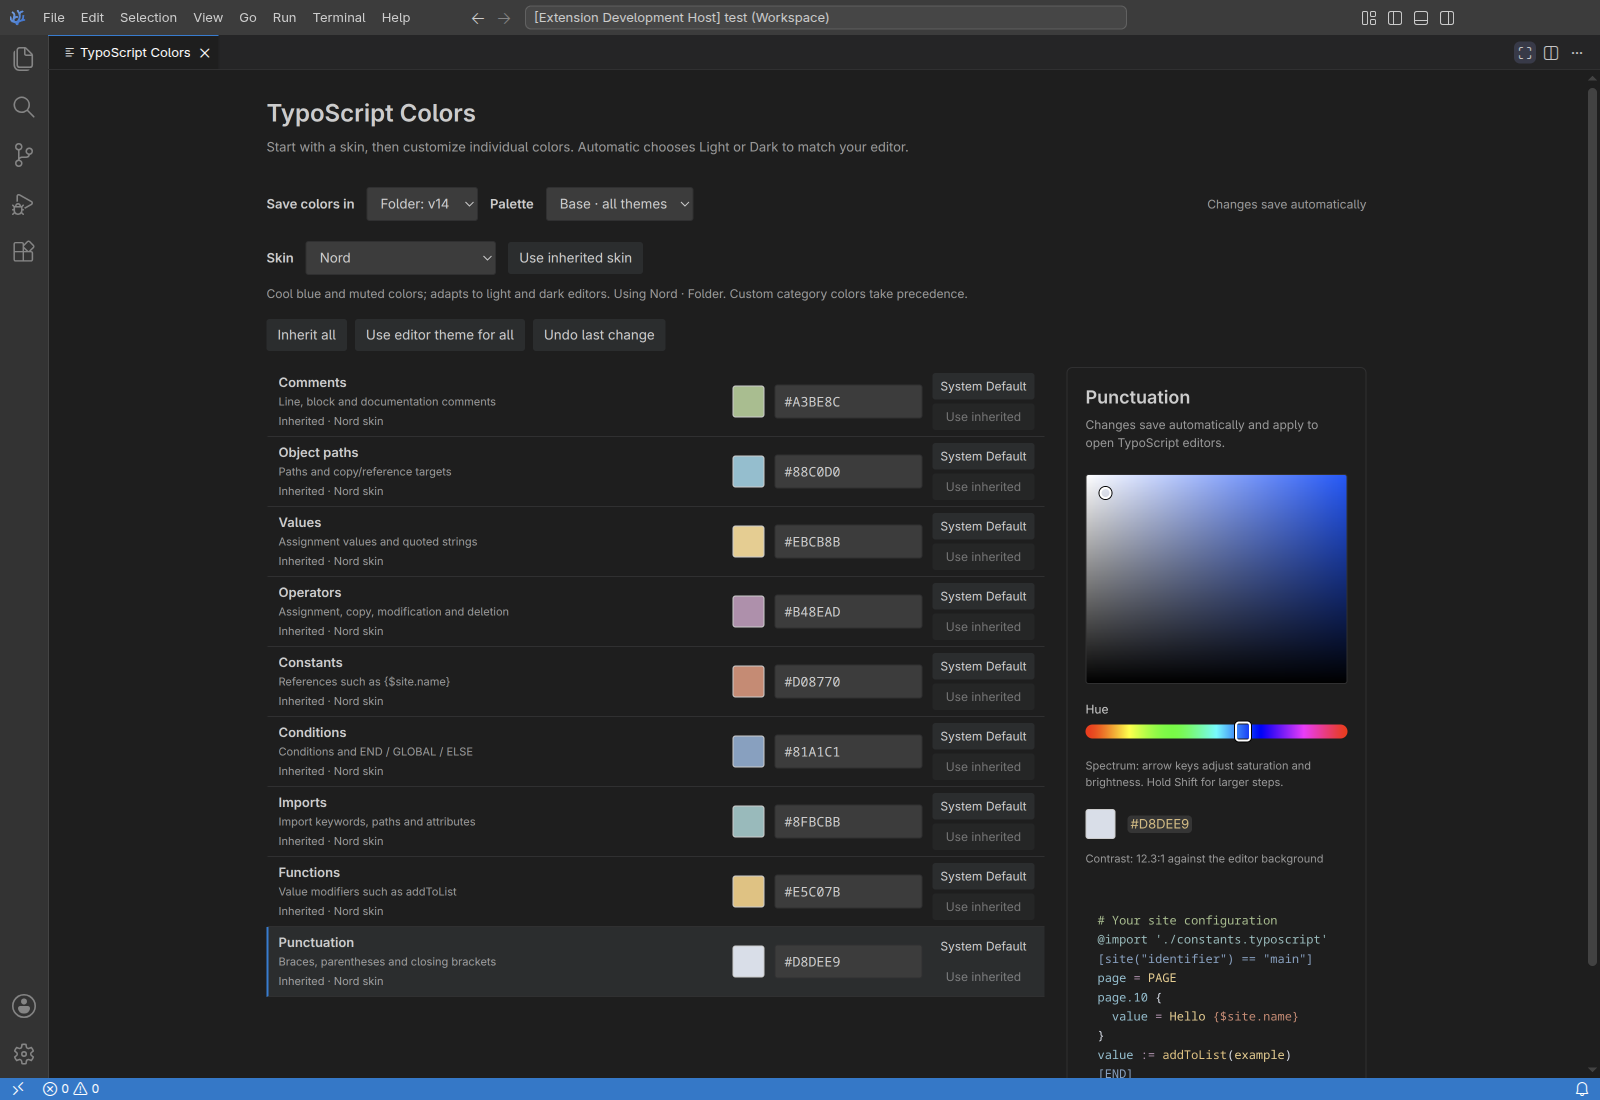
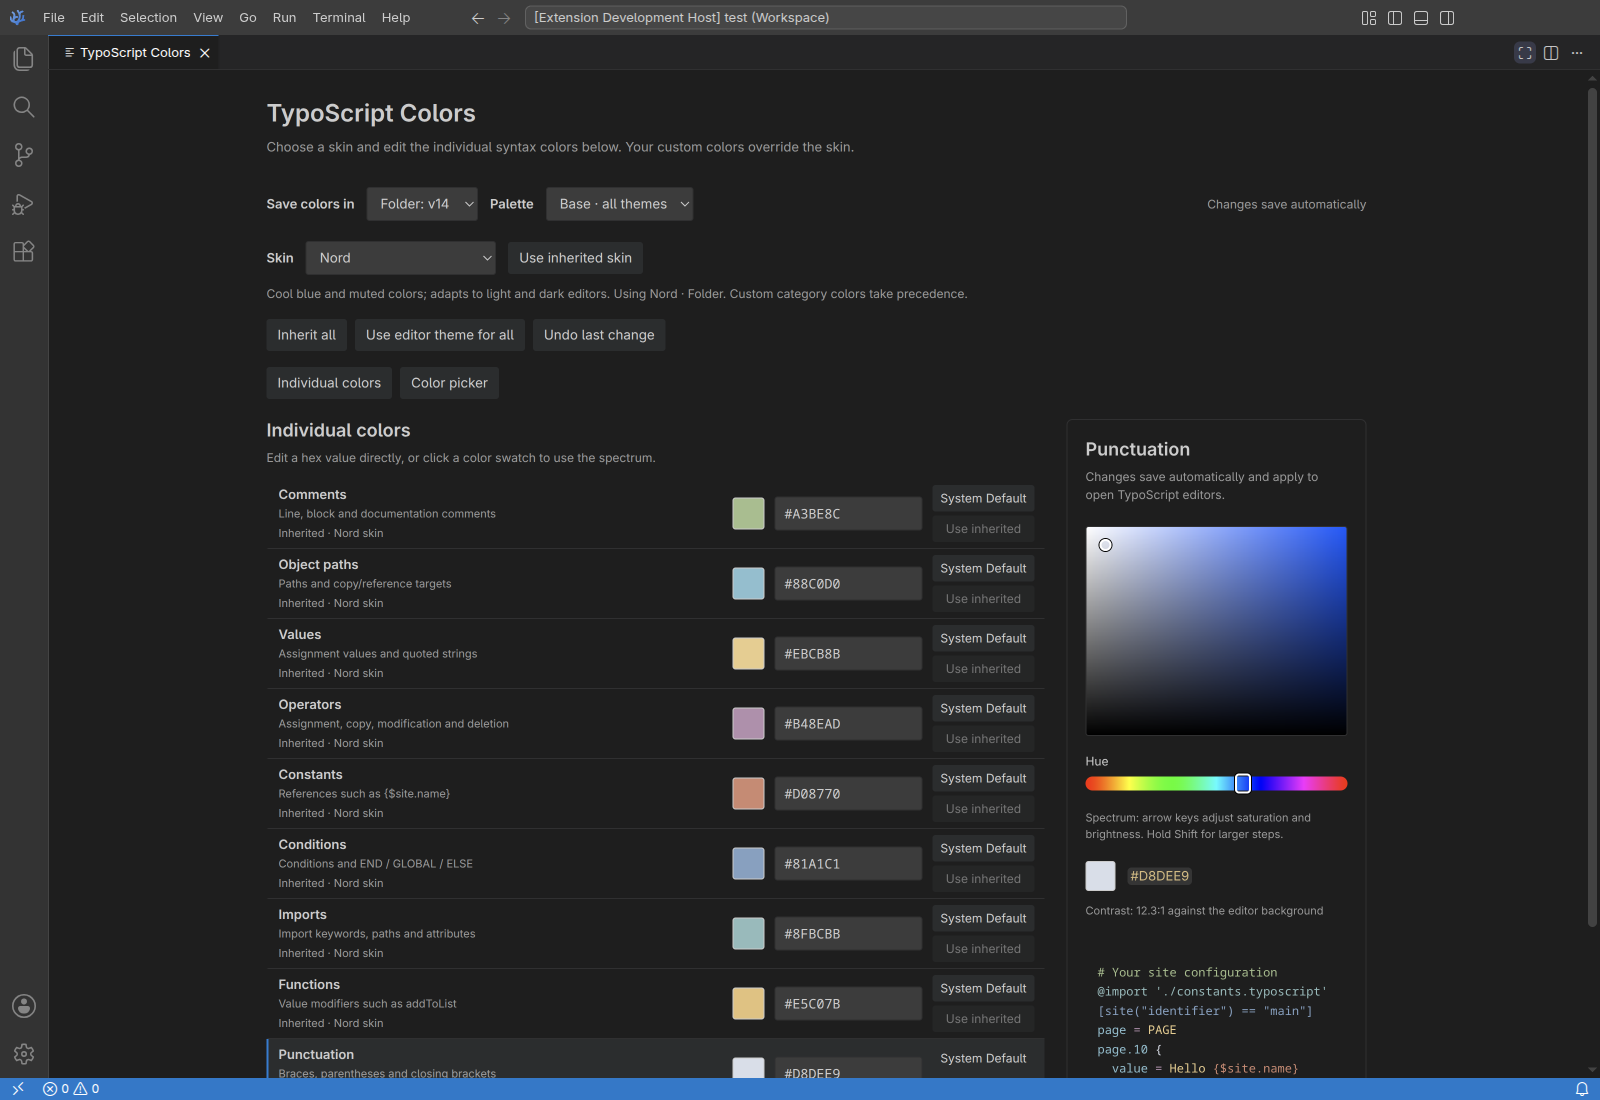
Keep individual color settings visible in narrow dialogs

diff --git a/scripts/color-probe.js b/scripts/color-probe.js
@@ -128,6 +128,28 @@ async function runColorProbe(directory, port, reportFile) {
       const before = report.characterChecks;
       if (current.action === 'picker') {
         const ui = await picker();
+        const firstColorVisible = await ui(`(() => {
+          const field = document.getElementById('hex-comments');
+          const rect = field.getBoundingClientRect();
+          return rect.width > 0 && rect.height > 0 && rect.top >= 0 && rect.bottom <= window.innerHeight
+            && rect.left >= 0 && rect.right <= window.innerWidth;
+        })()`);
+        assert.ok(firstColorVisible, 'individual color settings must be visible on opening a narrow dialog, before the spectrum');
+        await ui(`document.getElementById('show-picker').click()`);
+        await until('spectrum reachable from the color settings navigation', async () => await ui(`(() => {
+          const rect = document.getElementById('spectrum').getBoundingClientRect();
+          return document.activeElement.id === 'spectrum' && rect.top >= 0 && rect.bottom <= window.innerHeight;
+        })()`));
+        const compact = await ui(`window.innerWidth <= 960`);
+        await ui(`document.getElementById('show-colors').click()`);
+        if (compact) {
+          await ui(`document.getElementById('show-picker').click()`);
+          await ui(`document.getElementById('back-colors').click()`);
+        }
+        await until('individual color fields reachable from the spectrum', async () => await ui(`(() => {
+          const rect = document.getElementById('hex-comments').getBoundingClientRect();
+          return document.activeElement.id === 'categories-title' && rect.top >= 0 && rect.bottom <= window.innerHeight;
+        })()`));
         assert.equal(await ui(`document.getElementById('scope').value`), 'user', 'first use defaults to personal colors');
         await ui(`(() => { const scope = document.getElementById('scope'); scope.value = ${JSON.stringify(current.folderId)}; scope.dispatchEvent(new Event('change', { bubbles: true })); })()`);
         await pause(150);
@@ -145,6 +167,9 @@ async function runColorProbe(directory, port, reportFile) {
         await rendered(current);
         await ui(`(() => { document.querySelector('[data-category="comments"] .swatch').click(); const hue = document.getElementById('hue');
           hue.value = '0'; hue.dispatchEvent(new Event('input', { bubbles: true })); hue.dispatchEvent(new Event('change', { bubbles: true })); })()`);
+        // Let nested webview scrolling and the saved hue settle before mapping
+        // the spectrum into workbench coordinates for real pointer input.
+        await pause(150);
         const rect = await ui(`(() => { const r = document.getElementById('spectrum').getBoundingClientRect(); return { x: r.x, y: r.y, width: r.width, height: r.height }; })()`);
         const offset = await evaluate(`(() => { const r = [...document.querySelectorAll('iframe')].find(x => x.src.includes('stefan-sofka.typoscript-highlighting')).getBoundingClientRect(); return { x: r.x, y: r.y }; })()`);
         const x = offset.x + rect.x, y = offset.y + rect.y;

diff --git a/lib/color-settings.js b/lib/color-settings.js
@@ -13,15 +13,16 @@ function html(vscode, extensionUri, webview) {
 <meta http-equiv="Content-Security-Policy" content="default-src 'none'; style-src ${webview.cspSource}; script-src 'nonce-${nonce}';">
 <link rel="stylesheet" href="${asset('color-settings.css')}">
 <title>TypoScript Colors</title></head><body><main>
-<header><h1>TypoScript Colors</h1><p>Start with a skin, then customize individual colors. Automatic chooses Light or Dark to match your editor.</p></header>
+<header><h1>TypoScript Colors</h1><p>Choose a skin and edit the individual syntax colors below. Your custom colors override the skin.</p></header>
 <div class="toolbar"><label for="scope">Save colors in</label><select id="scope" aria-label="Settings scope"></select>
 <label for="palette">Palette</label><select id="palette" aria-label="Color palette"><option value="base">Base · all themes</option><option value="dark">Dark themes</option><option value="light">Light themes</option></select>
 <span id="status" role="status" aria-live="polite">Loading…</span></div>
 <div class="skin-toolbar"><label for="skin">Skin</label><select id="skin" aria-describedby="skin-help" disabled></select><button id="inherit-skin" disabled>Use inherited skin</button></div>
 <p id="skin-help" aria-live="polite">Loading skin…</p>
 <div class="bulk-actions"><button id="inherit-all" disabled>Inherit all</button><button id="reset-all" disabled>Use editor theme for all</button><button id="undo" disabled>Undo last change</button></div>
-<div class="layout"><section id="categories" aria-label="Syntax colors"></section>
-<section class="picker" aria-labelledby="picker-title"><h2 id="picker-title">Comments</h2><p id="picker-help">Select a category to edit its color.</p>
+<nav class="color-navigation" aria-label="Color settings sections"><button id="show-colors">Individual colors</button><button id="show-picker">Color picker</button></nav>
+<div class="layout"><section id="categories" aria-labelledby="categories-title"><h2 id="categories-title" tabindex="-1">Individual colors</h2><p class="categories-help">Edit a hex value directly, or click a color swatch to use the spectrum.</p></section>
+<section class="picker" aria-labelledby="picker-title"><button id="back-colors">Back to individual colors</button><h2 id="picker-title">Comments</h2><p id="picker-help">Select a category to edit its color.</p>
 <div id="spectrum" class="spectrum" tabindex="0" role="slider" aria-label="Saturation and brightness" aria-valuemin="0" aria-valuemax="100"><span id="marker"></span></div>
 <label class="hue-label" for="hue">Hue</label><input id="hue" type="range" min="0" max="360" step="1" value="0" aria-label="Hue">
 <p class="keyboard-help">Spectrum: arrow keys adjust saturation and brightness. Hold Shift for larger steps.</p>

diff --git a/media/color-settings.css b/media/color-settings.css
@@ -20,6 +20,10 @@ button:disabled { opacity: .5; cursor: default; }
 button:focus-visible, input:focus-visible, select:focus-visible, #spectrum:focus-visible { outline: 2px solid var(--vscode-focusBorder); outline-offset: 2px; }
 .layout { display: grid; grid-template-columns: minmax(550px, 1fr) 300px; grid-template-areas: "colors picker"; gap: 22px; align-items: start; }
 #categories { grid-area: colors; }
+#categories-title { scroll-margin-top: 16px; }
+.categories-help { font-size: 12px; margin-bottom: 12px; }
+.color-navigation { display: flex; flex-wrap: wrap; gap: 8px; margin: 0 0 20px; }
+#back-colors { display: none; }
 .row { display: grid; grid-template-columns: minmax(130px, 1fr) 32px 148px auto; gap: 10px; align-items: center; padding: 6px 10px; border-bottom: 1px solid var(--vscode-widget-border, var(--vscode-panel-border)); border-left: 2px solid transparent; }
 .row.selected { border-left-color: var(--vscode-focusBorder); background: var(--vscode-list-hoverBackground); }
 .label { display: block; font-weight: 600; margin-bottom: 4px; }
@@ -40,7 +44,7 @@ input[aria-invalid=true] { border-color: var(--vscode-inputValidation-errorBorde
 .selected-color { display: flex; gap: 12px; align-items: center; }
 #preview { display: inline-block; width: 30px; height: 30px; border-radius: 3px; border: 1px solid var(--vscode-foreground); }
 #color-value { font-size: 13px; }
-@media (max-width: 900px) { body { padding: 20px; } .layout { grid-template-columns: 1fr; grid-template-areas: "picker" "colors"; } .picker { position: static; max-width: 430px; } }
+@media (max-width: 960px) { body { padding: 20px; } .layout { grid-template-columns: 1fr; grid-template-areas: "colors" "picker"; } .picker { position: static; max-width: 430px; } #back-colors { display: inline-block; margin-bottom: 16px; } }
 @media (max-width: 530px) { .row { grid-template-columns: 1fr 32px 148px; } .row .reset { grid-column: 3; } .error { grid-column: 1 / -1; } #status { margin-left: 0; width: 100%; } }
 .source { color: var(--vscode-descriptionForeground); font-size: 11px; margin-top: 5px; }
 .bulk-actions { display: flex; flex-wrap: wrap; gap: 8px; margin: 16px 0; }

diff --git a/media/color-settings.js b/media/color-settings.js
@@ -82,6 +82,21 @@
     renderPicker();
   }
 
+  function showColors() {
+    const title = document.getElementById('categories-title');
+    title.scrollIntoView({ block: 'start' });
+    title.focus({ preventScroll: true });
+  }
+
+  function showPicker() {
+    spectrum.scrollIntoView({ block: 'center' });
+    spectrum.focus({ preventScroll: true });
+  }
+
+  document.getElementById('show-colors').addEventListener('click', showColors);
+  document.getElementById('back-colors').addEventListener('click', showColors);
+  document.getElementById('show-picker').addEventListener('click', showPicker);
+
   function renderRow(entry) {
     const row = rows.get(entry.category);
     if (document.activeElement !== row.input) row.input.value = entry.color;
@@ -159,8 +174,7 @@
       swatch.setAttribute('aria-label', `Choose ${entry.label.toLowerCase()} color`);
       swatch.addEventListener('click', () => {
         select(entry.category);
-        spectrum.scrollIntoView({ block: 'center' });
-        spectrum.focus({ preventScroll: true });
+        showPicker();
       });
       const input = document.createElement('input');
       input.type = 'text';

diff --git a/test/integration/colors.js b/test/integration/colors.js
@@ -172,7 +172,7 @@ async function run() {
   await vscode.commands.executeCommand('workbench.action.closeAuxiliaryBar');
   await vscode.commands.executeCommand('typoscriptHighlighting.configureColors', 'comments');
   await stage('picker UI enters all nine hex colors and adjusts the spectrum', { ...rendered(14), action: 'picker', baselineKey: 'dark-14',
-    folderId: `folder:${vscode.workspace.getWorkspaceFolder(uris.get(14)).uri.toString()}` });
+    folderId: `folder:${vscode.workspace.getWorkspaceFolder(uris.get(14)).uri.toString()}`, screenshot: 'individual-colors.png' });
   assert.equal(config(14).get('colors.comments'), '#BF3030');
   for (const [category, color] of Object.entries(PALETTE)) if (category !== 'comments') assert.equal(config(14).get(`colors.${category}`), color);
   await stage('picker UI resets all nine categories to System Default', { major: 14, action: 'picker-reset', restore: 'dark-14' });

diff --git a/docs/development.md b/docs/development.md
@@ -49,7 +49,7 @@ The runner removes temporary profiles and projects after each run. Downloaded ed
 
 ### Rendered-color checks and reports
 
-The color suite reads computed foreground RGB values through a localhost debug connection and checks persisted picker settings. It covers fresh-install automatic colors, all five skins, live Light/Dark changes, the skin selector and undo/inheritance, all nine categories, literal comment markers, nested constants, CRLF TSconfig, settings precedence, grammar changes, document edits, legacy colors, hex/spectrum/keyboard input and theme resets. Native theme baseline checks select the Editor theme skin explicitly. Reset checks compare non-whitespace characters with that baseline. The suite also verifies that native token-color settings and unrelated languages remain unchanged.
+The color suite reads computed foreground RGB values through a localhost debug connection and checks persisted picker settings. It verifies that individual color fields are visible on first opening in a split editor and that navigation reaches the spectrum and returns to the fields. It also covers fresh-install automatic colors, all five skins, live Light/Dark changes, the skin selector and undo/inheritance, all nine categories, literal comment markers, nested constants, CRLF TSconfig, settings precedence, grammar changes, document edits, legacy colors, hex/spectrum/keyboard input and theme resets. Native theme baseline checks select the Editor theme skin explicitly. Reset checks compare non-whitespace characters with that baseline. The suite also verifies that native token-color settings and unrelated languages remain unchanged.
 
 Reports default to `.vscode-test/color-results.json`. Failed runs attempt to save a screenshot beside the report.
 
@@ -59,7 +59,7 @@ Reports default to `.vscode-test/color-results.json`. Failed runs attempt to sav
 | `VSCODE_VERSION` | Download a particular VS Code build, such as `1.70.0`, when no executable is supplied. |
 | `TYPOSCRIPT_COLOR_REPORT` | Choose the rendered-color JSON report path. |
 | `TYPOSCRIPT_EXTENSION_PATH` | Load an extracted VSIX's extension directory to test packaged runtime files. |
-| `TYPOSCRIPT_SCREENSHOT_DIR` | Capture real skin selector, dark/light picker, editor, outline, Classic/Composer detection, YAML navigation, site-set load order and typed settings screenshots during the color suite. |
+| `TYPOSCRIPT_SCREENSHOT_DIR` | Capture real individual color fields in a split editor, skin selector, dark/light picker, editor, outline, Classic/Composer detection, YAML navigation, site-set load order and typed settings screenshots during the color suite. |
 | `TYPOSCRIPT_TEST_VIEWPORT` | Set a compact color-test viewport such as `1024x800`; screenshot mode uses its fixed larger viewport. |
 
 To verify the declared minimum and regenerate documentation screenshots:
@@ -86,11 +86,11 @@ npm run package
 npx --no-install vsce ls --tree
 ```
 
-The current source builds **typoscript-highlighting-1.7.0.vsix**, including automatic syntax skins and site-set editing. Install the resulting file with **Extensions: Install from VSIX…**, or run one of:
+The current source builds **typoscript-highlighting-1.7.1.vsix**, including automatic syntax skins and site-set editing. Install the resulting file with **Extensions: Install from VSIX…**, or run one of:
 
 ```bash
-codium --install-extension typoscript-highlighting-1.7.0.vsix
-code --install-extension typoscript-highlighting-1.7.0.vsix
+codium --install-extension typoscript-highlighting-1.7.1.vsix
+code --install-extension typoscript-highlighting-1.7.1.vsix
 ```
 
 GitHub release downloads and extension registries are published separately; their available version can differ from the source version.

diff --git a/README.md b/README.md
@@ -2,7 +2,7 @@
 
 TypoScript and TSconfig support for **Visual Studio Code and VSCodium**, with TYPO3-aware highlighting, project navigation and configurable colors.
 
-Version **1.7.0** adds five ready-to-use syntax skins and automatic Light/Dark selection. Highlighting works immediately after installation. Site-set dependencies, typed YAML settings and project navigation remain available. Composer and Classic TYPO3 installations are detected automatically, including active `typo3_src` symlinks.
+Version **1.7.1** keeps individual color settings visible in narrow or split editor groups, alongside the five syntax skins and automatic Light/Dark selection. Highlighting works immediately after installation. Site-set dependencies, typed YAML settings and project navigation remain available. Composer and Classic TYPO3 installations are detected automatically, including active `typo3_src` symlinks.
 
 [Install](#installation) · [Get started](#quick-start) · [Navigation](#navigate-your-project) · [Colors](#customize-colors) · [Settings](#settings-reference)
 
@@ -12,14 +12,14 @@ Version **1.7.0** adds five ready-to-use syntax skins and automatic Light/Dark s
 
 ## Installation
 
-Download **typoscript-highlighting-1.7.0.vsix** from the [GitHub release 1.7.0](https://github.com/StefanSofka/typoscript-highlighting/releases/tag/v1.7.0), then run **Extensions: Install from VSIX…** in the Command Palette. Alternatively, install the downloaded file from a terminal:
+Download **typoscript-highlighting-1.7.1.vsix** from the [GitHub release 1.7.1](https://github.com/StefanSofka/typoscript-highlighting/releases/tag/v1.7.1), then run **Extensions: Install from VSIX…** in the Command Palette. Alternatively, install the downloaded file from a terminal:
 
 ```bash
 # VSCodium
-codium --install-extension typoscript-highlighting-1.7.0.vsix
+codium --install-extension typoscript-highlighting-1.7.1.vsix
 
 # Visual Studio Code
-code --install-extension typoscript-highlighting-1.7.0.vsix
+code --install-extension typoscript-highlighting-1.7.1.vsix
 ```
 
 The extension is also listed on the [Visual Studio Marketplace](https://marketplace.visualstudio.com/items?itemName=stefan-sofka.typoscript-highlighting) and [Open VSX](https://open-vsx.org/extension/stefan-sofka/typoscript-highlighting). Registry versions are published separately from GitHub releases.
@@ -173,6 +173,10 @@ The command preserves the original override. More specific individual language o
 ## Customize colors
 
 Run **TypoScript Highlighting: Configure Colors**. The spectrum, hex fields and open TypoScript editors update together. The dialog starts with **User** settings and remembers your selected scope and palette.
+
+The **Individual colors** section contains all nine editable category fields. In a narrow or split editor, these fields appear before the large spectrum. Use **Color picker** or click a category's swatch to reach the spectrum; **Back to individual colors** returns to the fields. The **Individual colors** navigation button also takes you directly to them. Skins remain a starting palette: you can customize every category with any skin selected.
+
+[![Individual color fields stay directly accessible beside the editor, including in a split layout.](images/screenshots/individual-colors.png)](images/screenshots/individual-colors.png)
 
 ### Ready-to-use skins
 

diff --git a/docs/development-log.md b/docs/development-log.md
@@ -317,3 +317,11 @@ Add the skin selector to the existing color dialog, using its User/Workspace/Fol
 Verification: authored JavaScript/grammar checks and all 247 regression/package-content tests pass. Native integration passes on VSCodium 1.143.1 and the declared minimum VS Code 1.70.0. The rendered VSCodium suite passes 60 scenarios, 539 token ranges and 8,076 character foreground comparisons, including a fresh unconfigured installation, all five skins, live automatic Light/Dark changes, real selector operation, custom-color precedence, inheritance and undo. The 1024 × 800 CI viewport passes the same checks. The screenshot variant passes 69 scenarios and provides visually verified skin-selector, dark editor and dark/light palette captures. Manifest and lockfile are synchronized to 1.7.0.
 
 Release preparation points the README installation instructions at GitHub release `v1.7.0`, refreshes the current architecture description and packages the finalized source with the documentation screenshots. The GitHub release includes `typoscript-highlighting-1.7.0.vsix` and its SHA-256 checksum. Extension registry publication remains separate.
+
+## Version 1.7.1: Keep individual color settings visible, November 7, 2026
+
+A user reported that individual color settings appeared to be missing from Configure Colors. The fields and configuration entries were still present, but the responsive layout placed the large spectrum above all nine fields. In a narrow or split editor, the fields were far below the initial viewport. A new rendered visibility assertion reproduces the problem against the published 1.7.0 package.
+
+Place Individual colors before the spectrum in narrow layouts and raise the responsive breakpoint to avoid squeezing the two-column layout. Give the category list a visible heading and help text. Add Individual colors / Color picker navigation and a return button in the narrow spectrum, with keyboard focus following navigation. Keep all nine editable colors, scopes, palettes, skin overrides, inheritance and undo available. Let nested webview scrolling settle before mapping real pointer input in the rendering test.
+
+Validation includes JavaScript/grammar checks, all 247 regression/package-content tests, minimum VS Code 1.70.0 integration, and the 60-scenario rendered-color suite at 1024 × 800. The rendered suite checks initial visibility of the first category, navigation to the spectrum and back, and the existing real hex, mouse, keyboard and settings persistence checks. Refresh the documentation captures and add a split-editor screenshot focused on the individual fields. Package the correction as 1.7.1.

diff --git a/docs/project-review.md b/docs/project-review.md
@@ -108,6 +108,8 @@ Nine resource-scoped `typoscriptHighlighting.colors.*` settings accept direct si
 
 The view resolves scope inheritance through configuration inspection. A System Default action writes an explicit empty value to mask inherited extension color overrides. Existing 1.2.0 `custom` selections still resolve the matching legacy custom-color object; picker edits replace them with direct hex values. Settings changes refresh both the color decorations and the open picker. The panel is created only when requested, reused while open, and releases message listeners when closed. Local resource roots and a restrictive content security policy limit its assets to the packaged picker files.
 
+The Individual colors section remains ahead of the spectrum in narrow and split editor groups. Navigation buttons and a return button preserve access to both the nine editable category fields and the spectrum, with keyboard focus moved to the selected section. The rendered suite checks first-open field visibility and round-trip navigation at the compact CI viewport.
+
 Skin and custom colors use foreground-only editor decorations over ranges produced by the same modern/legacy grammars that the editor uses. The most specific recognized scope determines the category, preserving distinct constants inside values and recognized imports inside v11 comments. The extension reads its own settings and never writes native theme or token-color settings.
 
 Token ranges are cached by document URI, version, and language mode. Edits are debounced for 75 ms and carry grammar state across lines when retokenized. Async initialization results are discarded if settings, document contents, language, visibility, or controller lifetime have changed. Closed documents release cached ranges. Disposal releases event listeners, timers, decoration types, and the TextMate registry.
